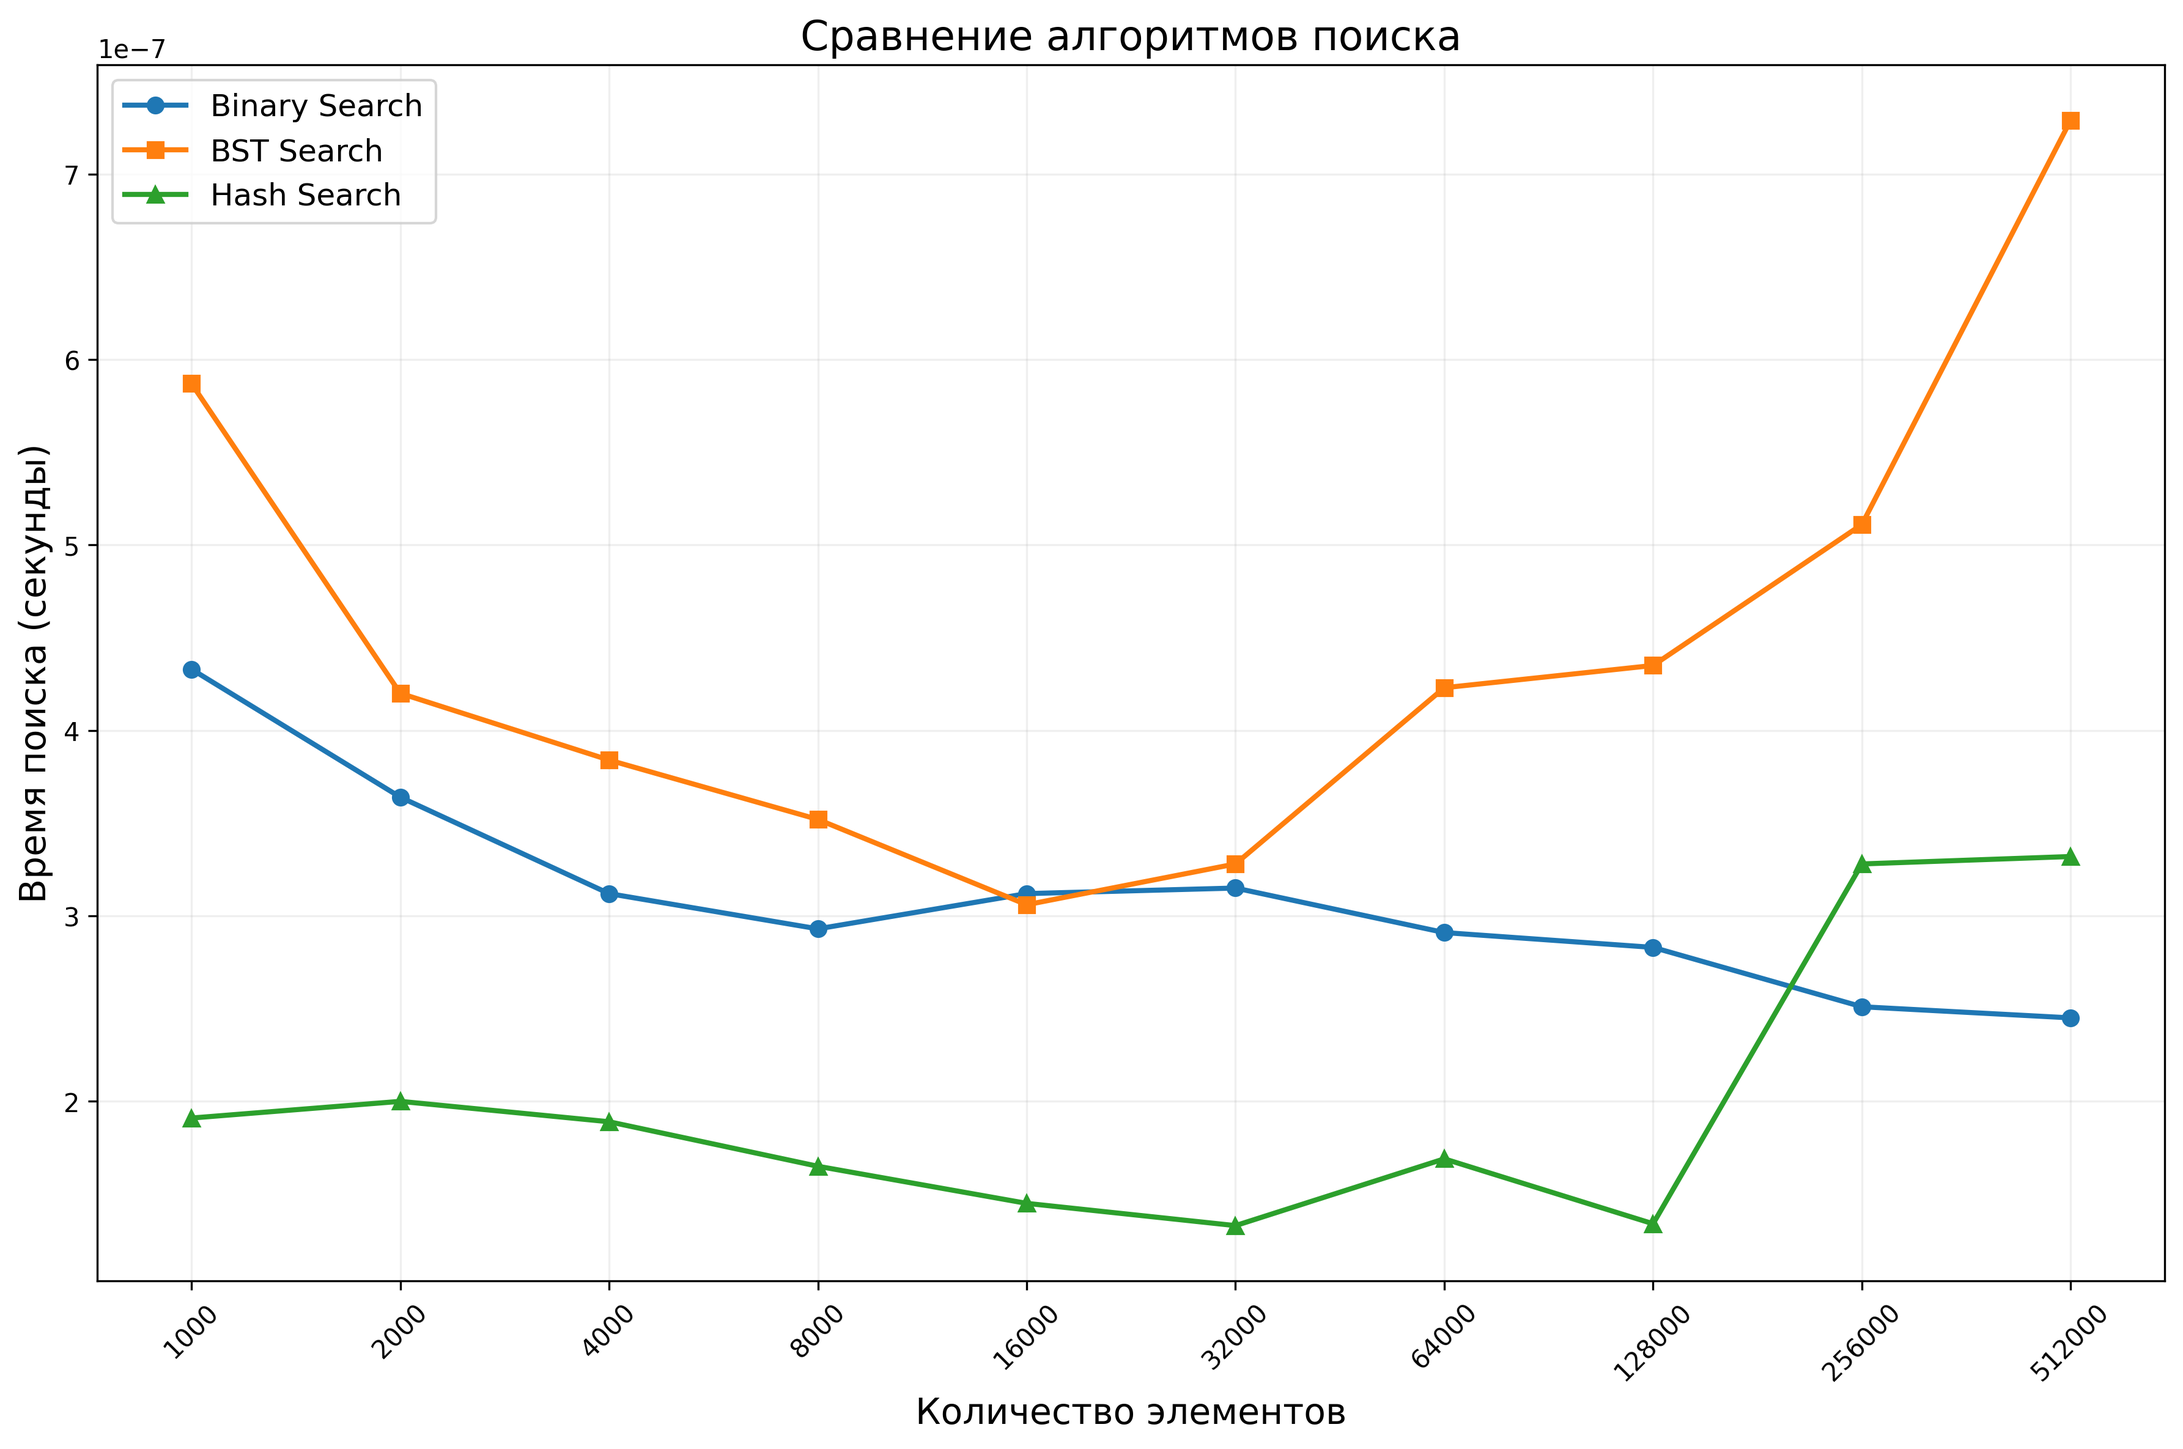
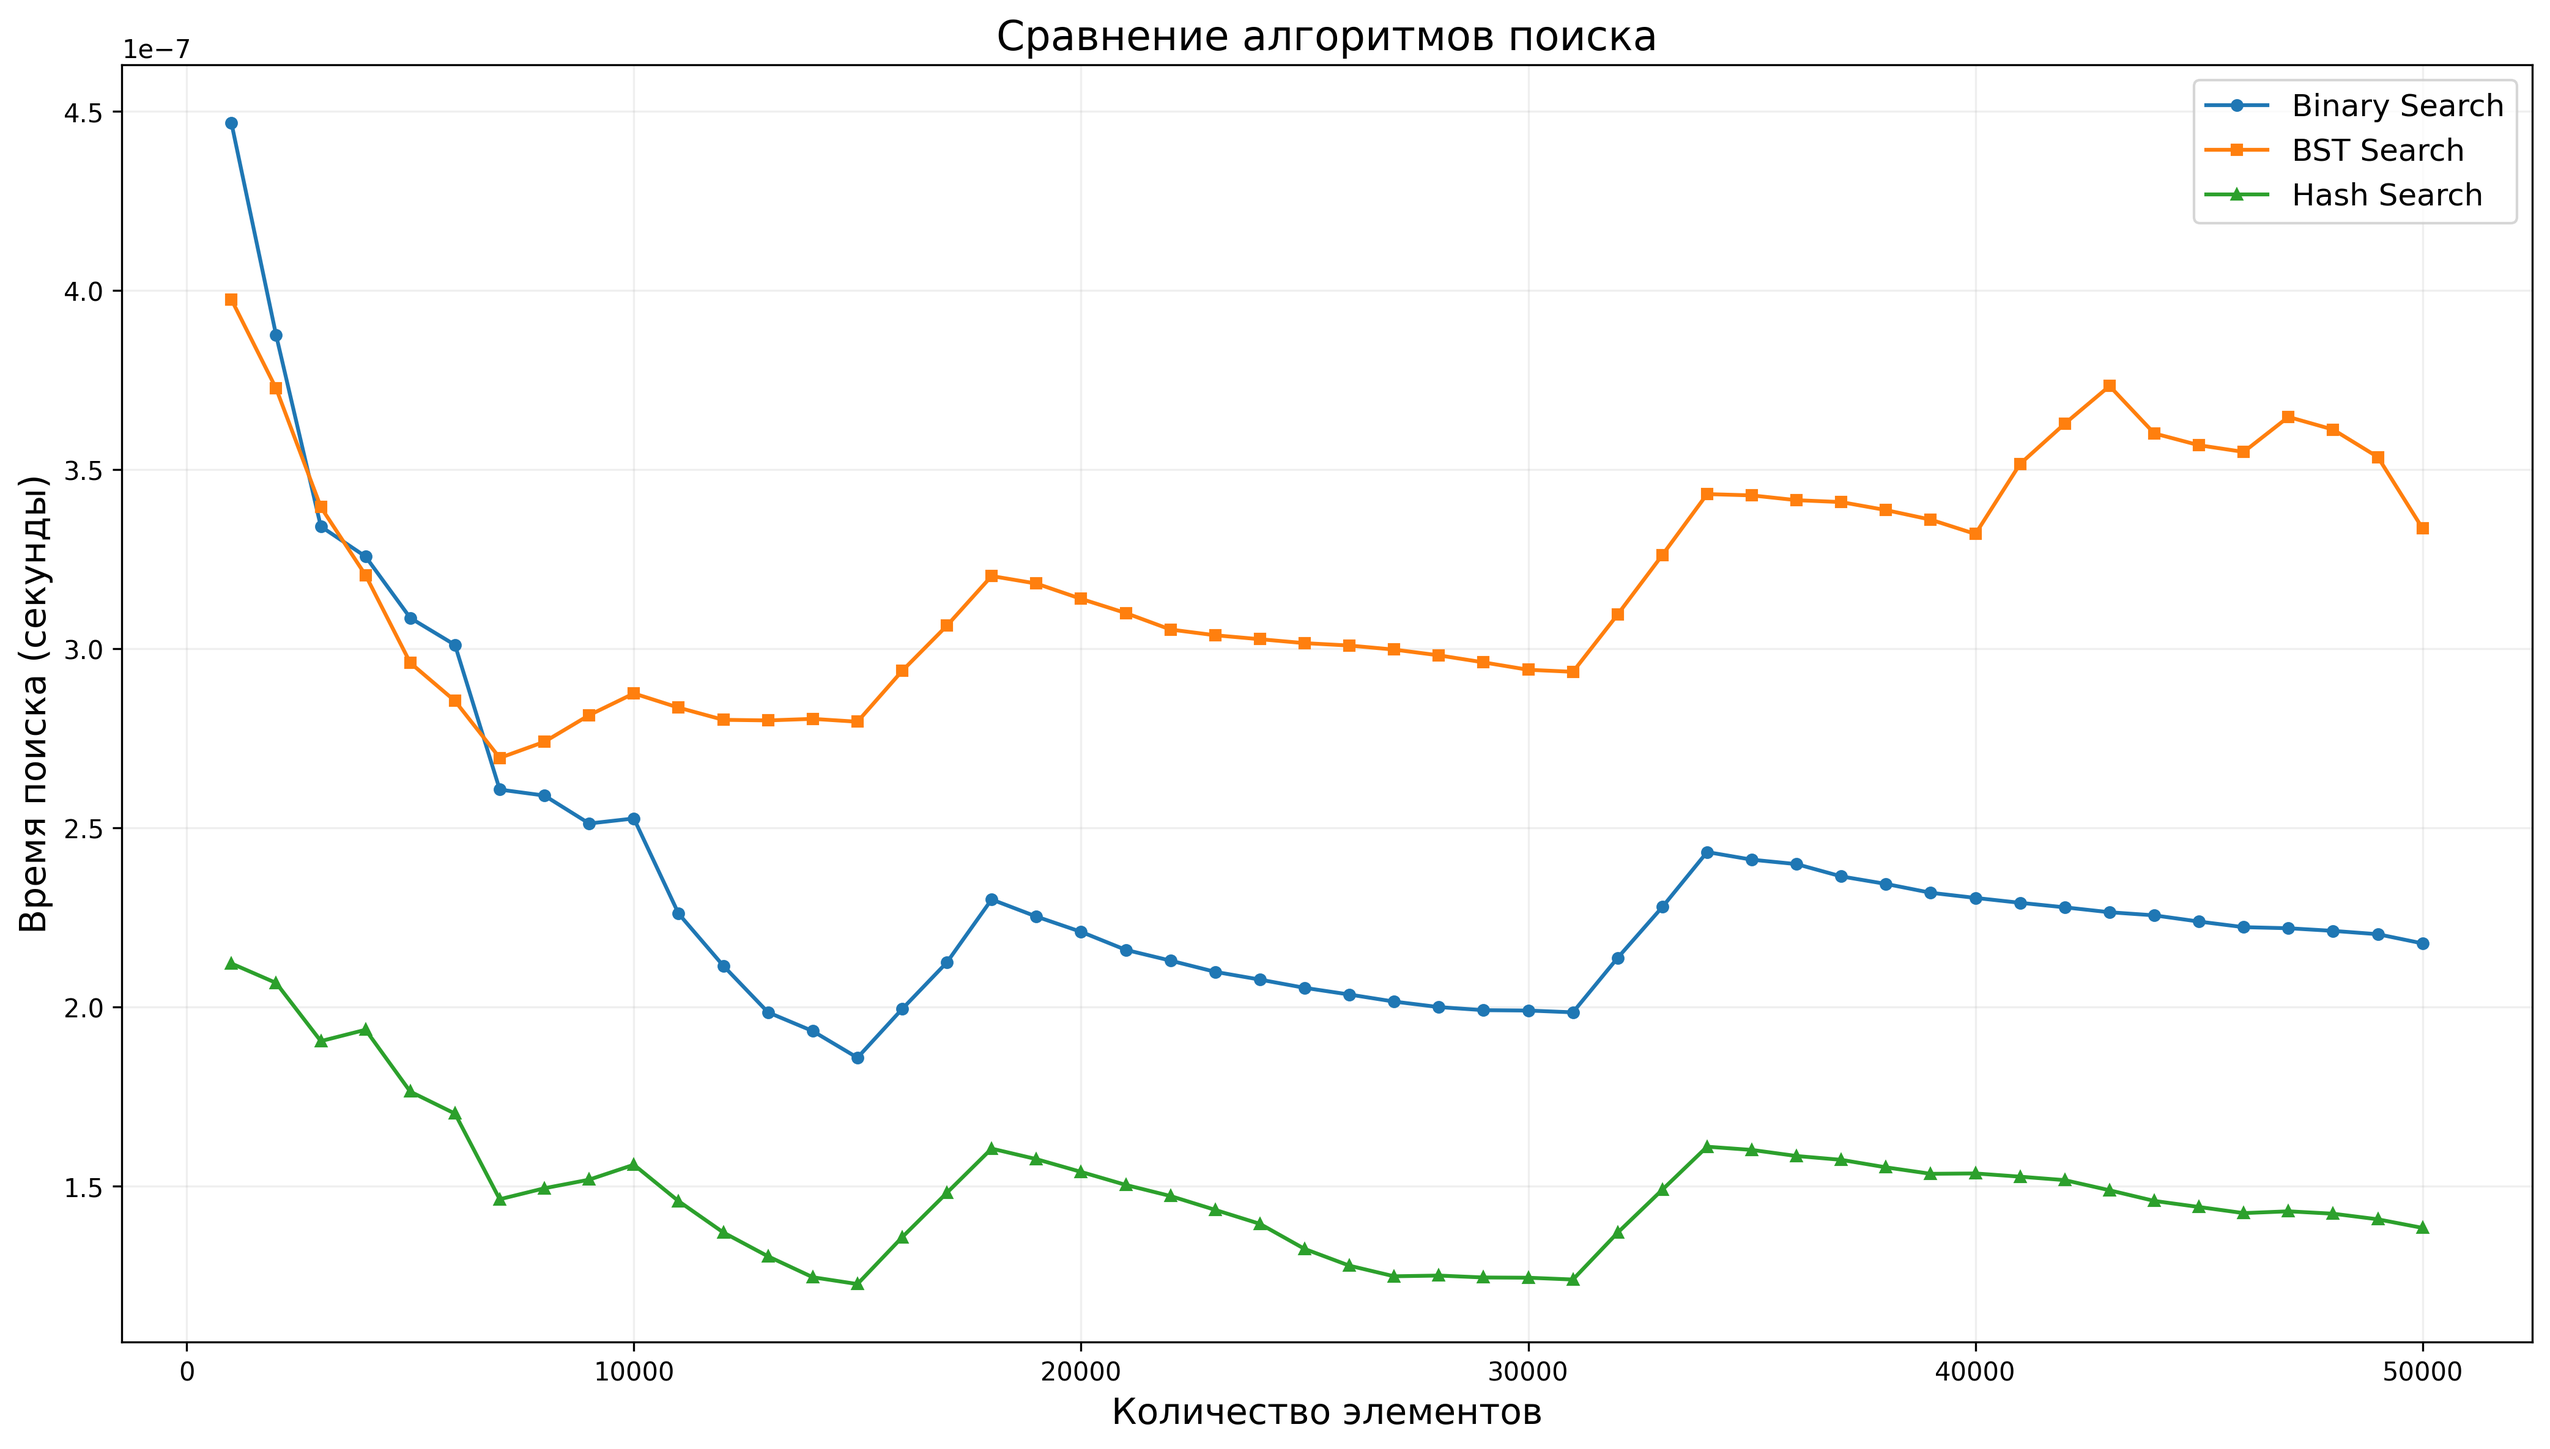
update search result files to log execution time in seconds and adjust test parameters

diff --git a/AISD/lab2/comparison-plot.py b/AISD/lab2/comparison-plot.py
@@ -1,5 +1,5 @@
 try:
-    import pandas as pd
+    import pandas as pd # type: ignore
 except ImportError:
     print("Pandas не установлен. Пробуем использовать базовые библиотеки...")
     pd = None
@@ -20,10 +20,11 @@ try:
         bst_data = pd.read_csv('bst_search_results.txt')
         hash_data = pd.read_csv('hash_search_results.txt')
         
-        # Convert nanoseconds to seconds
-        binary_data['Time(s)'] = binary_data['Time(ns)'] / 1e9
-        bst_data['Time(s)'] = bst_data['Time(ns)'] / 1e9
-        hash_data['Time(s)'] = hash_data['Time(ns)'] / 1e9
+        # Apply light smoothing if there are significant jumps
+        if len(binary_data) > 5:
+            binary_data['Time(s)'] = binary_data['Time(s)'].rolling(window=3, center=True).mean().fillna(binary_data['Time(s)'])
+            bst_data['Time(s)'] = bst_data['Time(s)'].rolling(window=3, center=True).mean().fillna(bst_data['Time(s)'])
+            hash_data['Time(s)'] = hash_data['Time(s)'].rolling(window=3, center=True).mean().fillna(hash_data['Time(s)'])
     else:
         # Manual CSV reading if pandas is not available
         binary_data = {'Size': [], 'Time(s)': []}
@@ -36,7 +37,7 @@ try:
             next(reader)  # skip header
             for row in reader:
                 binary_data['Size'].append(int(row[0]))
-                binary_data['Time(s)'].append(float(row[1]) / 1e9)
+                binary_data['Time(s)'].append(float(row[1]))  # Already in seconds
         
         # Read BST search data
         with open('bst_search_results.txt', 'r') as f:
@@ -44,7 +45,7 @@ try:
             next(reader)  # skip header
             for row in reader:
                 bst_data['Size'].append(int(row[0]))
-                bst_data['Time(s)'].append(float(row[1]) / 1e9)
+                bst_data['Time(s)'].append(float(row[1]))  # Already in seconds
         
         # Read hash search data
         with open('hash_search_results.txt', 'r') as f:
@@ -52,26 +53,20 @@ try:
             next(reader)  # skip header
             for row in reader:
                 hash_data['Size'].append(int(row[0]))
-                hash_data['Time(s)'].append(float(row[1]) / 1e9)
+                hash_data['Time(s)'].append(float(row[1]))  # Already in seconds
     
     # Create figure for comparison chart
-    plt.figure(figsize=(12, 8))
+    plt.figure(figsize=(14, 8))
     
     # Use scientific notation for very small numbers
     plt.ticklabel_format(axis='y', style='scientific', scilimits=(0,0))
     
-    # Plot data in seconds
-    plt.plot(binary_data['Size'], binary_data['Time(s)'], marker='o', linewidth=2, label='Binary Search')
-    plt.plot(bst_data['Size'], bst_data['Time(s)'], marker='s', linewidth=2, label='BST Search')
-    plt.plot(hash_data['Size'], hash_data['Time(s)'], marker='^', linewidth=2, label='Hash Search')
+    # Plot data in seconds with smaller markers for cleaner look
+    plt.plot(binary_data['Size'], binary_data['Time(s)'], marker='o', markersize=4, linewidth=1.5, label='Binary Search')
+    plt.plot(bst_data['Size'], bst_data['Time(s)'], marker='s', markersize=4, linewidth=1.5, label='BST Search')
+    plt.plot(hash_data['Size'], hash_data['Time(s)'], marker='^', markersize=4, linewidth=1.5, label='Hash Search')
     
-    # Use log scale for x-axis
-    plt.xscale('log', base=2)
-    
-    # Format x-axis to show actual numbers
-    plt.gca().xaxis.set_major_formatter(ScalarFormatter())
-    plt.xticks(binary_data['Size'], rotation=45)
-    
+    # For better readability, don't use log scale with linear steps
     # Add grid
     plt.grid(True, which="both", ls="-", alpha=0.2)
     
@@ -89,14 +84,18 @@ try:
     # Save chart as PNG
     plt.savefig('search_comparison.png', dpi=300, bbox_inches='tight')
     
-    # Create a table for comparison
+    # Create a table for comparison - show only some key points for readability
+    # Select a subset of points to display (every 5000 elements)
+    display_indices = [i for i, size in enumerate(binary_data['Size']) if size % 5000 == 0 or size == 1000]
+    
     fig, ax = plt.subplots(figsize=(12, 6))
     ax.axis('tight')
     ax.axis('off')
     
-    # Prepare table data with times in seconds (scientific notation)
+    # Prepare table data
     table_data = []
-    for i, size in enumerate(binary_data['Size']):
+    for i in display_indices:
+        size = binary_data['Size'][i] if isinstance(binary_data['Size'], list) else binary_data['Size'].iloc[i]
         bin_time = binary_data['Time(s)'][i] if isinstance(binary_data['Time(s)'], list) else binary_data['Time(s)'].iloc[i]
         bst_time = bst_data['Time(s)'][i] if isinstance(bst_data['Time(s)'], list) else bst_data['Time(s)'].iloc[i]
         hash_time = hash_data['Time(s)'][i] if isinstance(hash_data['Time(s)'], list) else hash_data['Time(s)'].iloc[i]

diff --git a/AISD/lab2/lab2_1.cpp b/AISD/lab2/lab2_1.cpp
@@ -28,13 +28,13 @@ bool binarySearch(const std::vector<int>& arr, int target) {
 
 int main() {
     std::ofstream outFile("binary_search_results.txt");
-    outFile << "Size,Time(ns)\n";
+    outFile << "Size,Time(s)\n";
     
     std::random_device rd;
     std::mt19937 gen(rd());
     
-    // Test for various array sizes
-    for (int size = 1000; size <= 1000000; size *= 2) {
+    // Test for various array sizes from 1000 to 50000 with step 1000
+    for (int size = 1000; size <= 50000; size += 1000) {
         // Create a sorted array of size 'size'
         std::vector<int> arr(size);
         for (int i = 0; i < size; i++) {
@@ -45,6 +45,8 @@ int main() {
         
         // Perform multiple searches to get accurate timing
         const int NUM_SEARCHES = 10000;
+        
+        // Measure total time for all searches in microseconds
         auto start = std::chrono::high_resolution_clock::now();
         
         for (int i = 0; i < NUM_SEARCHES; i++) {
@@ -53,10 +55,15 @@ int main() {
         }
         
         auto end = std::chrono::high_resolution_clock::now();
-        auto duration = std::chrono::duration_cast<std::chrono::nanoseconds>(end - start).count() / NUM_SEARCHES;
         
-        std::cout << "Binary Search - Array size: " << size << ", Average time: " << duration << " ns" << std::endl;
-        outFile << size << "," << duration << "\n";
+        // Calculate total time in microseconds first
+        long long totalMicroseconds = std::chrono::duration_cast<std::chrono::microseconds>(end - start).count();
+        
+        // Convert to seconds by dividing by 10^6 and then by number of searches
+        double averageTimeSeconds = (double)totalMicroseconds / (1000000.0 * NUM_SEARCHES);
+        
+        std::cout << "Binary Search - Array size: " << size << ", Average time: " << averageTimeSeconds << " s" << std::endl;
+        outFile << size << "," << averageTimeSeconds << "\n";
     }
     
     outFile.close();

diff --git a/AISD/lab2/lab2.cpp b/AISD/lab2/lab2.cpp
@@ -9,13 +9,13 @@
 
 int main() {
     std::ofstream outFile("hash_search_results.txt");
-    outFile << "Size,Time(ns)\n";
+    outFile << "Size,Time(s)\n";
     
     std::random_device rd;
     std::mt19937 gen(rd());
     
-    // Test for various array sizes
-    for (int size = 1000; size <= 1000000; size *= 2) {
+    // Test for various array sizes from 1000 to 50000 with step 1000
+    for (int size = 1000; size <= 50000; size += 1000) {
         // Create a hash table of size 'size'
         std::unordered_set<int> hashTable;
         for (int i = 0; i < size; i++) {
@@ -26,6 +26,8 @@ int main() {
         
         // Perform multiple searches to get accurate timing
         const int NUM_SEARCHES = 10000;
+        
+        // Measure total time for all searches in microseconds
         auto start = std::chrono::high_resolution_clock::now();
         
         for (int i = 0; i < NUM_SEARCHES; i++) {
@@ -34,10 +36,15 @@ int main() {
         }
         
         auto end = std::chrono::high_resolution_clock::now();
-        auto duration = std::chrono::duration_cast<std::chrono::nanoseconds>(end - start).count() / NUM_SEARCHES;
         
-        std::cout << "Hash Search - Table size: " << size << ", Average time: " << duration << " ns" << std::endl;
-        outFile << size << "," << duration << "\n";
+        // Calculate total time in microseconds first
+        long long totalMicroseconds = std::chrono::duration_cast<std::chrono::microseconds>(end - start).count();
+        
+        // Convert to seconds by dividing by 10^6 and then by number of searches
+        double averageTimeSeconds = (double)totalMicroseconds / (1000000.0 * NUM_SEARCHES);
+        
+        std::cout << "Hash Search - Table size: " << size << ", Average time: " << averageTimeSeconds << " s" << std::endl;
+        outFile << size << "," << averageTimeSeconds << "\n";
     }
     
     outFile.close();

diff --git a/AISD/lab2/lab2_2.cpp b/AISD/lab2/lab2_2.cpp
@@ -9,13 +9,13 @@
 
 int main() {
     std::ofstream outFile("bst_search_results.txt");
-    outFile << "Size,Time(ns)\n";
+    outFile << "Size,Time(s)\n";
     
     std::random_device rd;
     std::mt19937 gen(rd());
     
-    // Test for various array sizes
-    for (int size = 1000; size <= 1000000; size *= 2) {
+    // Test for various array sizes from 1000 to 50000 with step 1000
+    for (int size = 1000; size <= 50000; size += 1000) {
         // Create a balanced BST (using std::set) of size 'size'
         std::set<int> bst;
         for (int i = 0; i < size; i++) {
@@ -26,6 +26,8 @@ int main() {
         
         // Perform multiple searches to get accurate timing
         const int NUM_SEARCHES = 10000;
+        
+        // Measure total time for all searches in microseconds
         auto start = std::chrono::high_resolution_clock::now();
         
         for (int i = 0; i < NUM_SEARCHES; i++) {
@@ -34,10 +36,15 @@ int main() {
         }
         
         auto end = std::chrono::high_resolution_clock::now();
-        auto duration = std::chrono::duration_cast<std::chrono::nanoseconds>(end - start).count() / NUM_SEARCHES;
         
-        std::cout << "BST Search - Tree size: " << size << ", Average time: " << duration << " ns" << std::endl;
-        outFile << size << "," << duration << "\n";
+        // Calculate total time in microseconds first
+        long long totalMicroseconds = std::chrono::duration_cast<std::chrono::microseconds>(end - start).count();
+        
+        // Convert to seconds by dividing by 10^6 and then by number of searches
+        double averageTimeSeconds = (double)totalMicroseconds / (1000000.0 * NUM_SEARCHES);
+        
+        std::cout << "BST Search - Tree size: " << size << ", Average time: " << averageTimeSeconds << " s" << std::endl;
+        outFile << size << "," << averageTimeSeconds << "\n";
     }
     
     outFile.close();
